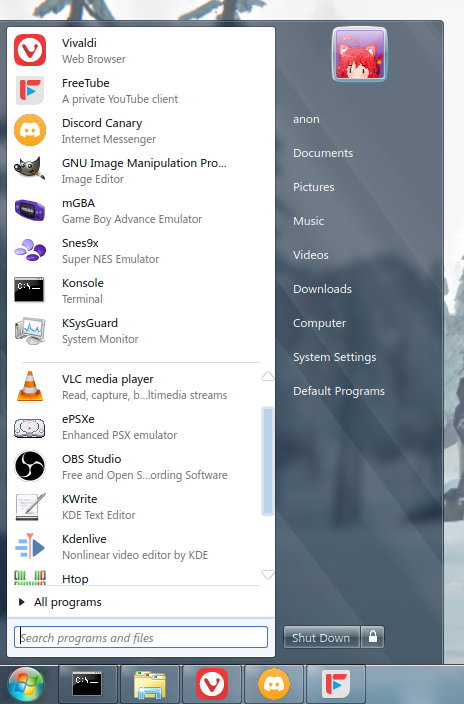
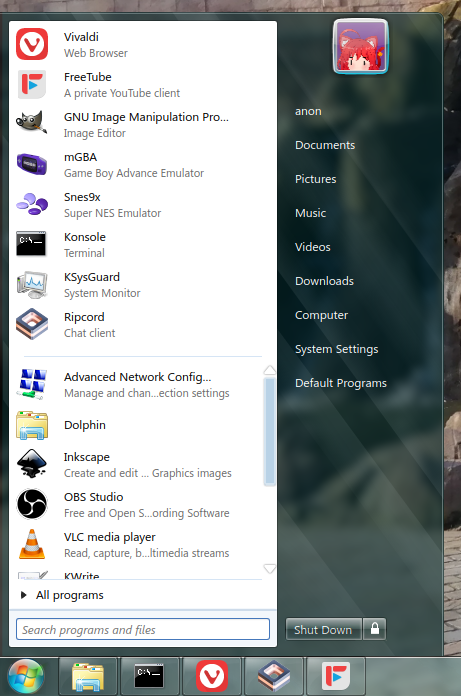
Updated To-do list.

diff --git a/README.md b/README.md
@@ -452,15 +452,14 @@ As for features that are lacking compared to Windows 7, there's a few that I'd l
 ## TODO List <a name="todo-list"></a>
 
 1. Improve the Seven Start menu plasmoid
-    1. Add separator lines and more sidebar entries
-        1. If possible, make the sidebar entries configurable
-    2. Add proper Recents support and Favourite application support
-    3. Add a button "All programs" which lists all programs alphabetically
-    4. If possible, make the top-right icon stick out of the Start menu (I have not found a way to make this happen yet sadly)
-    5. If possible, make the top-right icon change depending on which sidebar is hovered over.
+    1. If possible, make the sidebar entries configurable
+    2. If possible, make the top-right icon stick out of the Start menu (I have not found a way to make this happen yet sadly)
+    3. If possible, make the top-right icon change depending on which sidebar is hovered over.
 2. Improve the icon theme
 3. Implement window reflections
 4. Add 32 bit support (QGtkStyle and Smaragd)
+5. Replace QGtkStyle with a better Widget visual style, ideally a QWindowsVistaStyle Linux port if possible
+6. Give the Show Desktop plasmoid a proper button texture from Windows 7
 
 
 
